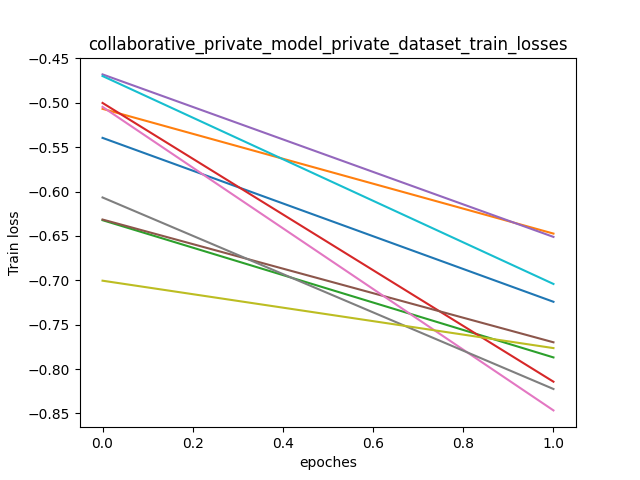
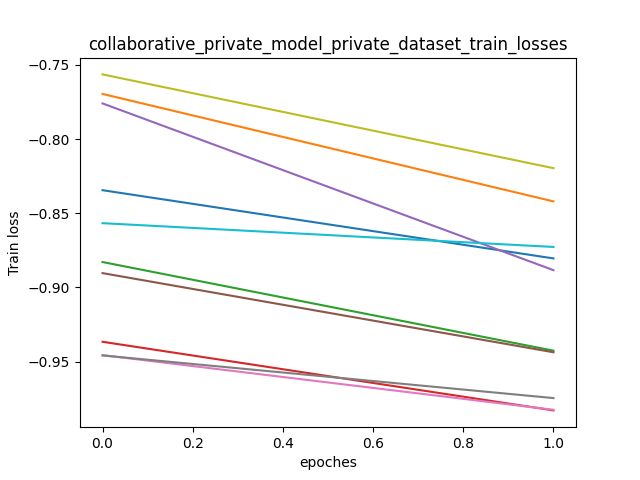
update

diff --git a/private_model_femnist_balanced.py b/private_model_femnist_balanced.py
@@ -38,11 +38,11 @@ def private_dataset_train(args):
     else:
         model_list,model_type_list = get_model_list(args.privateurl,modelsindex,models)
 
+
     private_model_private_dataset_train_losses = []
     for n, model in enumerate(model_list):
         print('train Local Model {} on Private Dataset'.format(n))
         model.to(device)
-        model.train()
         if args.optimizer == 'sgd':
             optimizer = torch.optim.SGD(model.parameters(), lr=args.lr,
                                     momentum=0.5)
@@ -54,6 +54,7 @@ def private_dataset_train(args):
         train_epoch_losses = []
         print('Begin Private Training')
         for epoch in range(args.privateepoch):
+            model.train()
             train_batch_losses = []
             for batch_idx, (images, labels) in enumerate(trainloader):
                 images,labels = images.to(device),labels.to(device)
@@ -69,6 +70,9 @@ def private_dataset_train(args):
                 train_batch_losses.append(loss.item())
             loss_avg = sum(train_batch_losses)/len(train_batch_losses)
             train_epoch_losses.append(loss_avg)
+
+            model.eval()
+
         torch.save(model.state_dict(),'Src/PrivateModel/LocalModel{}Type{}.pkl'.format(n,model_type_list[n],args.privateepoch))
         # torch.save(model.state_dict(),'Src/PrivateModel/LocalModel{}Type{}Epoch{}.pkl'.format(n,model_type_list[n],args.privateepoch))
         private_model_private_dataset_train_losses.append(train_epoch_losses)

diff --git a/data_utils.py b/data_utils.py
@@ -154,6 +154,12 @@ def FEMNIST_iid(dataset,num_users):
         f  = open(args.private_dataset_index,'r')
         temp = f.read()
         dict_users =eval(temp)
+        if args.testBestCondition:
+            setvolume = set()
+            for key in dict_users.keys():
+                setvolume = setvolume.union(dict_users[key])
+            for key in dict_users.keys():
+                dict_users[key] = setvolume
         return dict_users
     else:
         print('create private_dataset_index ~ ')
@@ -171,8 +177,6 @@ def FEMNIST_iid(dataset,num_users):
         f.write(str(dict_users))
         f.close()
         return dict_users
-
-
 
 def MNIST_random(dataset,epochs):
     num_item = 5000
@@ -201,3 +205,14 @@ class args:
 #         dict_private_index.setdefault(data_train[i][1], []).append(i)
 #     return dict_private_index
 # print(generateIndex(data_train))
+# args = args_parser()
+# if  os.path.exists(args.private_dataset_index):
+#     print('private_dataset_index exist ~ ')
+#     f  = open(args.private_dataset_index,'r')
+#     temp = f.read()
+#     dict_users =eval(temp)
+#     setvolume = set()
+#     for key in dict_users.keys():
+#         setvolume = setvolume.union(dict_users[key])
+#     for key in dict_users.keys():
+#         dict_users[key]=setvolume

diff --git a/option.py b/option.py
@@ -20,10 +20,12 @@ def args_parser():
     parser.add_argument('--private_dataset_index',type=str,default='Src/private_dataset_index.txt',help='in order to fix the private dataset,beacuse each client has only a few of dataset')
 
     # private_model_femnist_balanced
-    parser.add_argument('--privateepoch',type=int,default=40,help='training epoch')
+    parser.add_argument('--privateepoch',type=int,default=20,help='training epoch')
     parser.add_argument('--private_dataset',type=str,default='FEMNIST',help='private dataset for each client')
     parser.add_argument('--privateurl',type=str,default='Src\PrivateModel',help='private model location')
     parser.add_argument('--new_private_training',type=bool,default=False,help='whether train model from initial condition')
+    parser.add_argument('--testBestCondition',type=bool,default=False,help='test the result with data shared')
+
 
     # Collaborative_private_model_femnist_balanced
     parser.add_argument('--new_collaborative_training',type=bool,default=False,help='whether train model from initial condition')

diff --git a/demo.py b/demo.py
@@ -209,6 +209,3 @@ import matplotlib.pyplot as plt
 #     train_dataset, test_dataset = get_private_dataset_balanced(args)
 #     user_groups = FEMNIST_iid(train_dataset, args.user_number)
 
-marix=[[1,1,1,1],[2,2,2,2],[3,3,3,3]]
-print(len(marix))
-print(marix.size())
